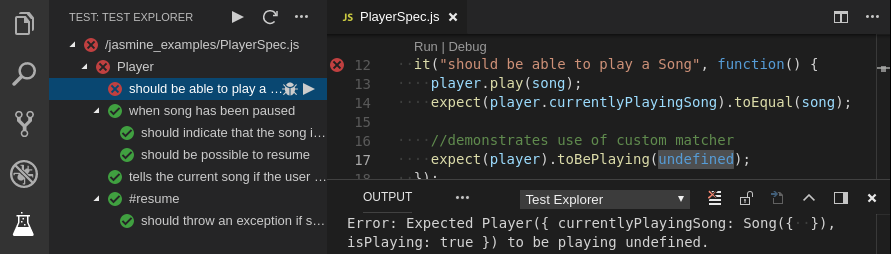
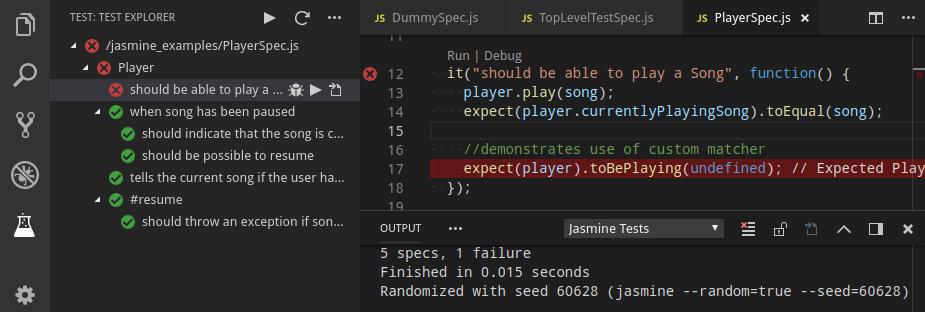
update documentation

diff --git a/README.md b/README.md
@@ -9,6 +9,7 @@ Run your Jasmine tests in Node using the
 * Shows a Test Explorer in the Test view in VS Code's sidebar with all detected tests and suites and their state
 * Adds CodeLenses to your test files for starting and debugging tests
 * Adds Gutter decorations to your test files showing the tests' state
+* Adds line decorations to the source line where a test failed
 * Shows a failed test's log when the test is selected in the explorer
 * Lets you choose test suites or individual tests in the explorer that should be run automatically after each file change
 * Forwards the console output from Jasmine to a VS Code output channel
@@ -55,6 +56,6 @@ If the "Jasmine Tests" output channel doesn't show up, the Test view doesn't sho
 * `jasmineExplorer.logfile`: Write diagnostic logs to the given file
 
 There is a [bug in Node >= 10.6](https://github.com/nodejs/node/issues/21671) that breaks this adapter.
-If you're using a version of Node affected by this bug, add `"mochaExplorer.nodePath": null` to your configuration as a workaround.
+If you're using a version of Node affected by this bug, add `"jasmineExplorer.nodePath": null` to your configuration as a workaround.
 
 If you think you've found a bug, please [file a bug report](https://github.com/hbenl/vscode-jasmine-test-adapter/issues) and attach the diagnostic logs.
